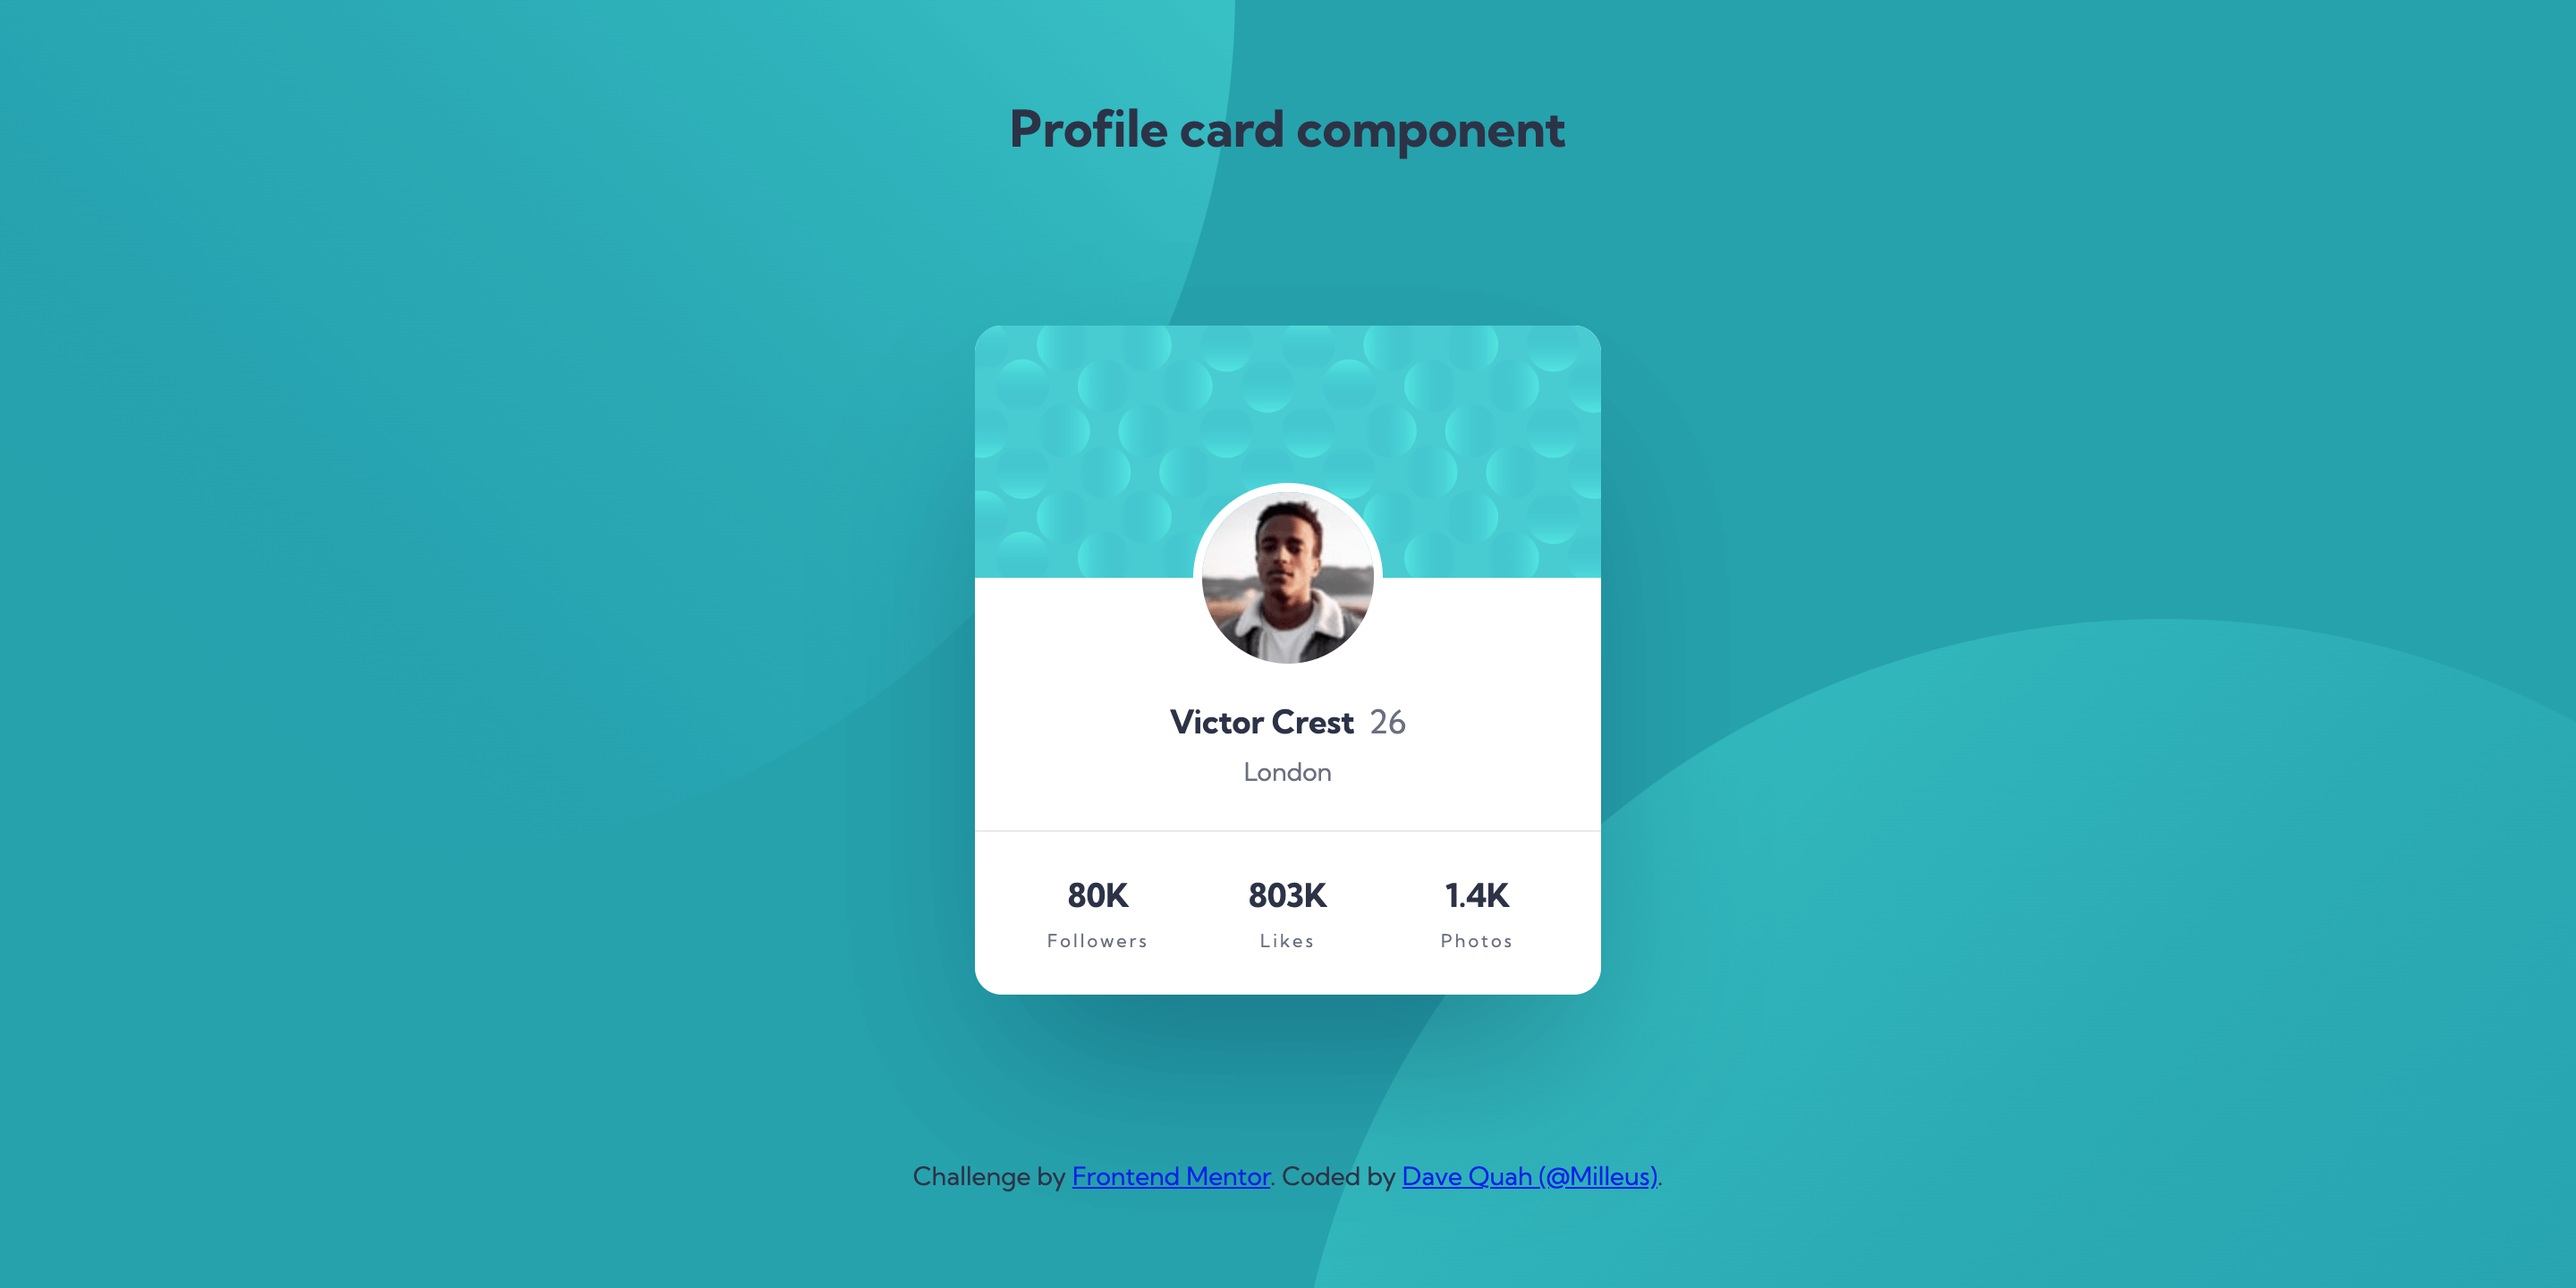
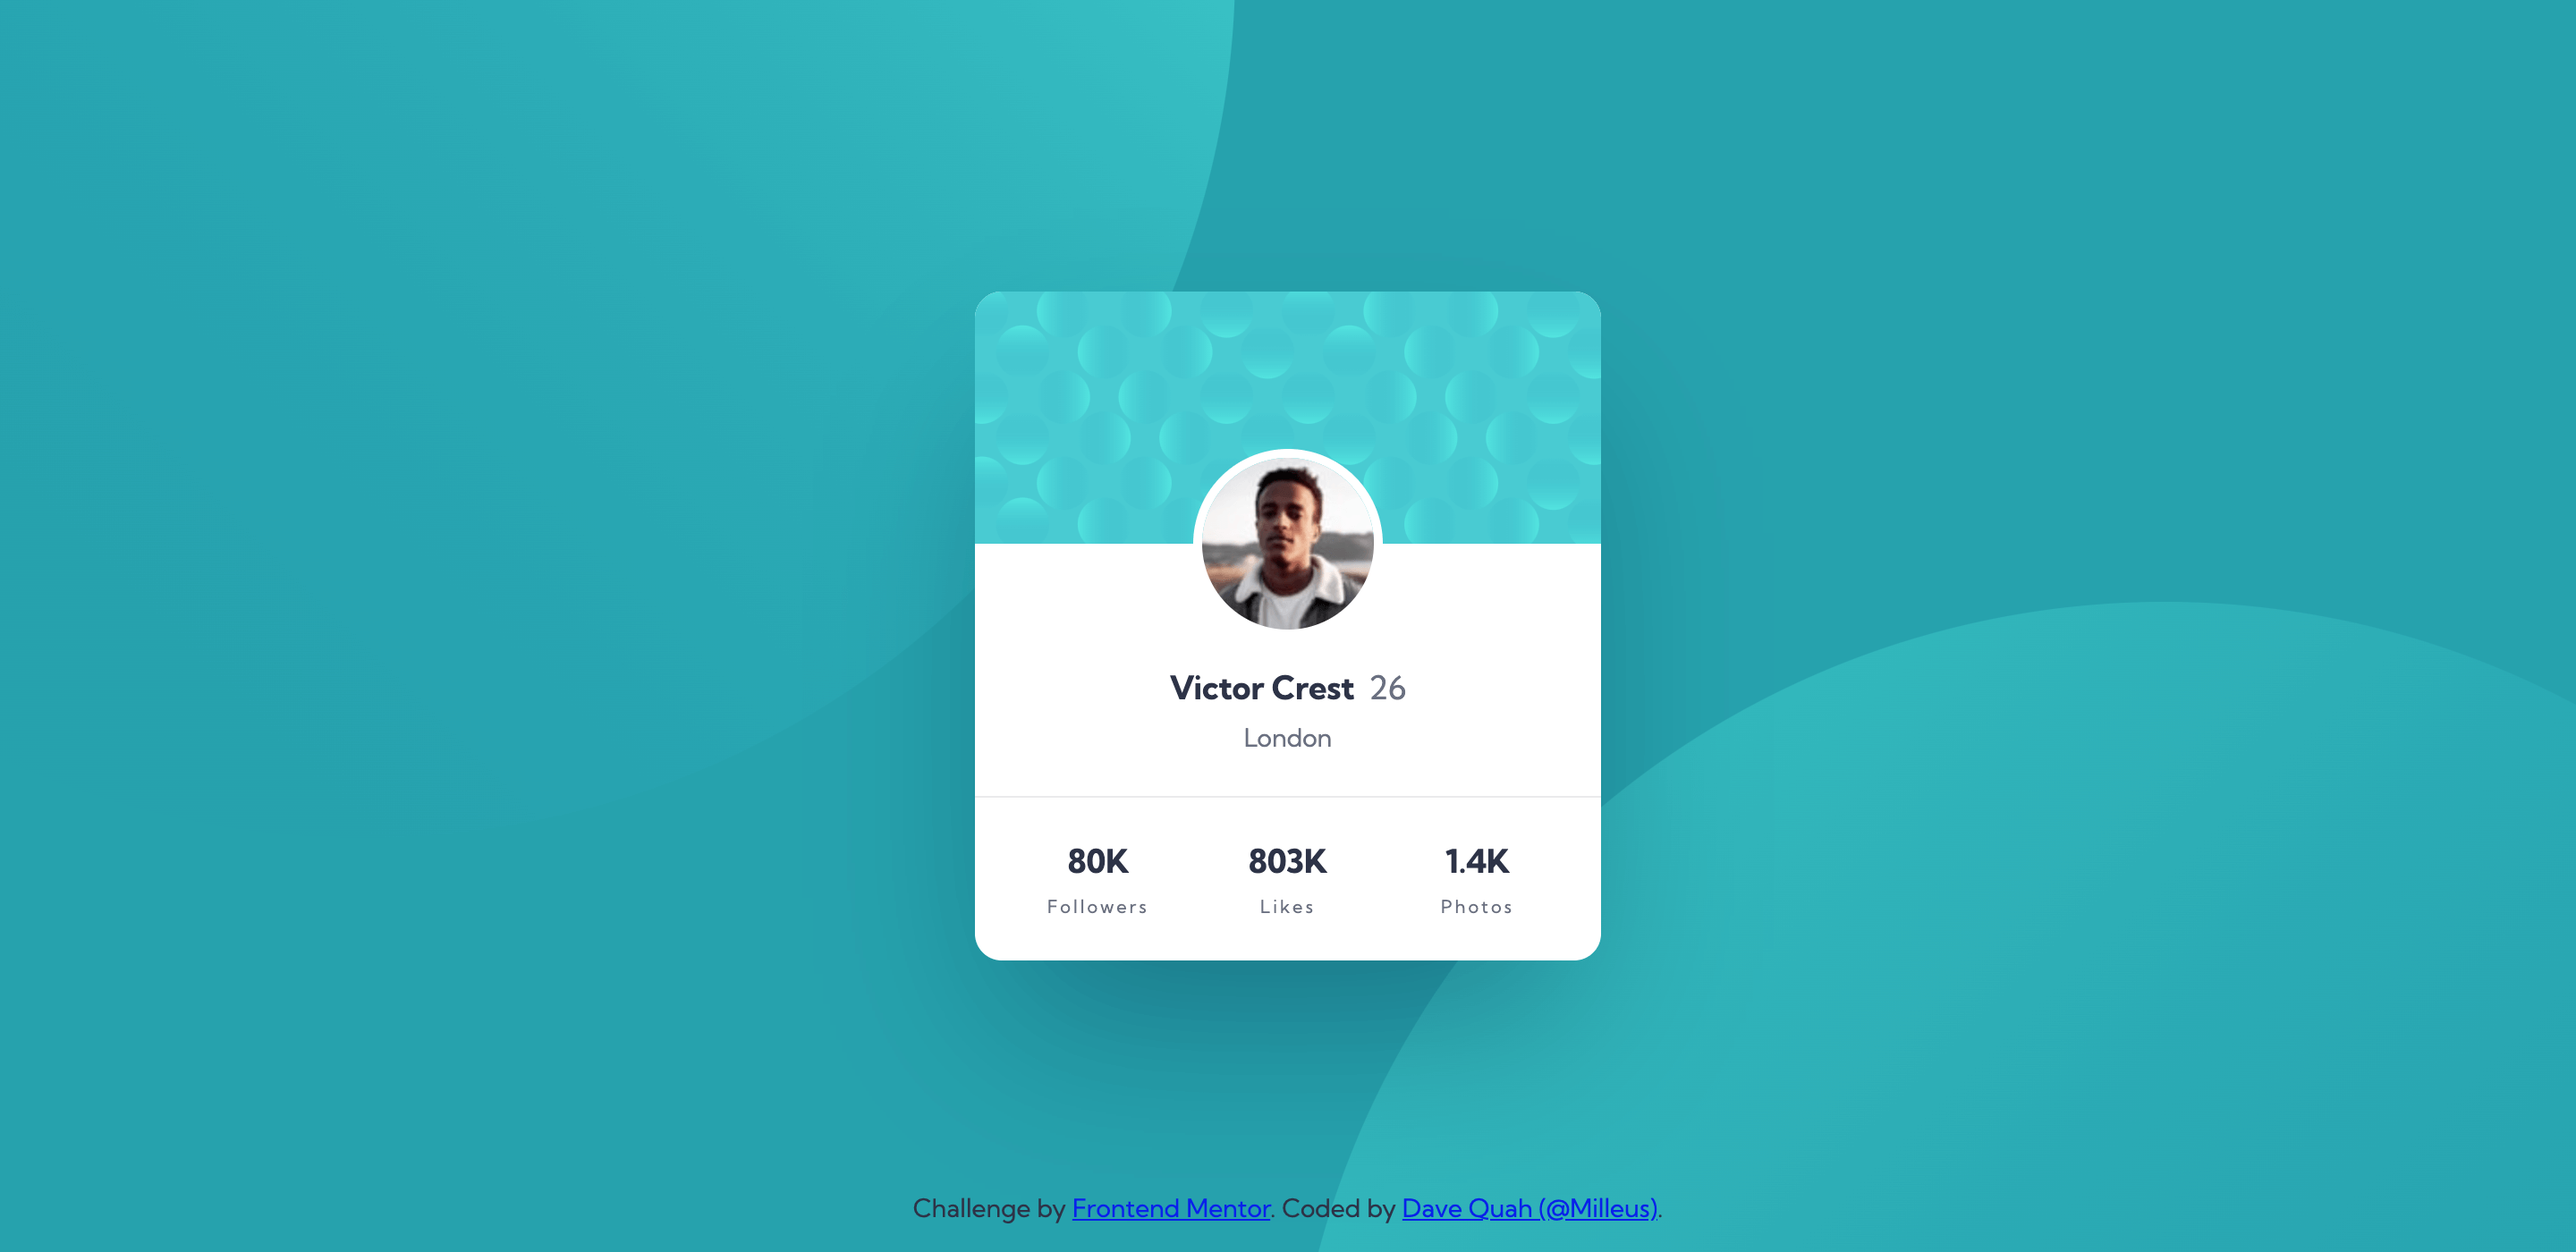
refactor: remove header

diff --git a/global.css b/global.css
@@ -176,9 +176,6 @@ select {
 .mt-16 {
   margin-top: 1rem;
 }
-.my-16 {
-  margin-block: 1rem;
-}
 .p-24 {
   padding: 1.5rem;
 }
@@ -187,15 +184,28 @@ select {
 /* Block               */
 /* ------------------- */
 .container {
+  place-items: center;
+  grid-template-rows: 1fr auto 1fr;
+  grid-template-areas:
+    "header"
+    "main"
+    "footer";
   min-height: 100vh;
   min-width: fit-content;
-  display: grid;
-  place-items: center;
-  padding-inline: 1.5rem;
+  padding: 1rem 1.5rem;
   background-image: url(/assets/bg-pattern-top.svg),
     url(/assets/bg-pattern-bottom.svg);
   background-position: right 52vw bottom 33vh, left 50vw top 48vh;
   background-repeat: no-repeat;
+}
+
+.container > main {
+  grid-area: main;
+}
+
+.container > footer {
+  grid-area: footer;
+  align-self: end;
 }
 
 .card {
@@ -203,6 +213,7 @@ select {
   width: 100%;
   background-color: hsl(var(--clr-neutral-100));
   border-radius: 15px;
+  margin-inline: auto;
   box-shadow: 0px 50px 100px -20px hsl(var(--clr-blue-600) / 0.5);
   overflow: hidden;
 }

diff --git a/index.html b/index.html
@@ -26,12 +26,9 @@
 </head>
 
 <body>
-  <div class="container">
-    <header class="text-blue-700 text-center my-16">
-      <h1>Profile card component</h1>
-    </header>
-
+  <div class="grid container">
     <main>
+      <h1 class="sr-only">Profile card component</h1>
       <div class="card text-center">
         <header class="grid p-24">
           <img src="/assets/image-victor.jpg" alt="Victor Crest">
@@ -64,8 +61,8 @@
       </div>
     </main>
 
-    <footer class="text-blue-700 text-center my-16">
-      <p>
+    <footer>
+      <p class="text-blue-700 text-center">
         Challenge by <a href="https://www.frontendmentor.io?ref=challenge" target="_blank" rel="noopener">Frontend
           Mentor</a>.
         Coded by <a href="https://www.frontendmentor.io/profile/Milleus">Dave Quah (@Milleus)</a>.
